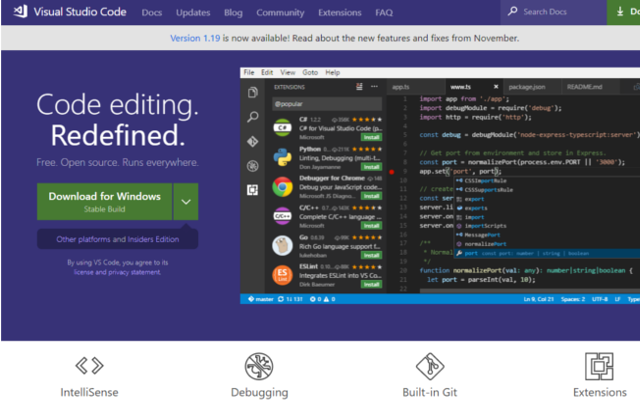
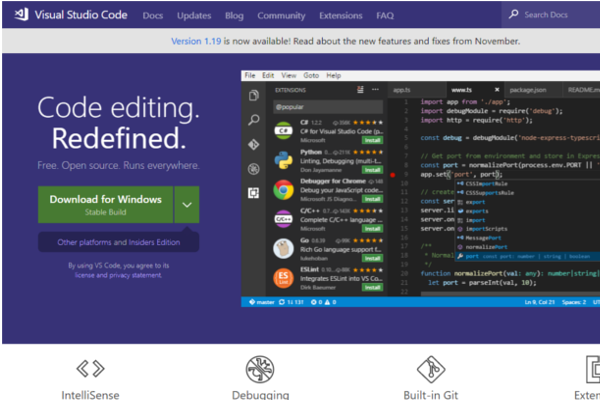
imagenesvisual

diff --git a/README.md b/README.md
@@ -32,7 +32,7 @@ Microsoft Visual Studio es un entorno de desarrollo integrado (IDE, por sus sigl
 
 
 Visual Studio permite a los desarrolladores crear sitios y aplicaciones web, así como servicios web en cualquier entorno que soporte la plataforma .NET (a partir de la versión .NET 2002). Así, se pueden crear aplicaciones que se comuniquen entre estaciones de trabajo, páginas web, dispositivos móviles, dispositivos embebidos y consolas, entre otros.
-<img src="/imagenes/visual.png" width="700px">
+<img src="/imagenes/visual.png" width="600px">
 
 ## Poniendo en práctica el lenguaje
 
